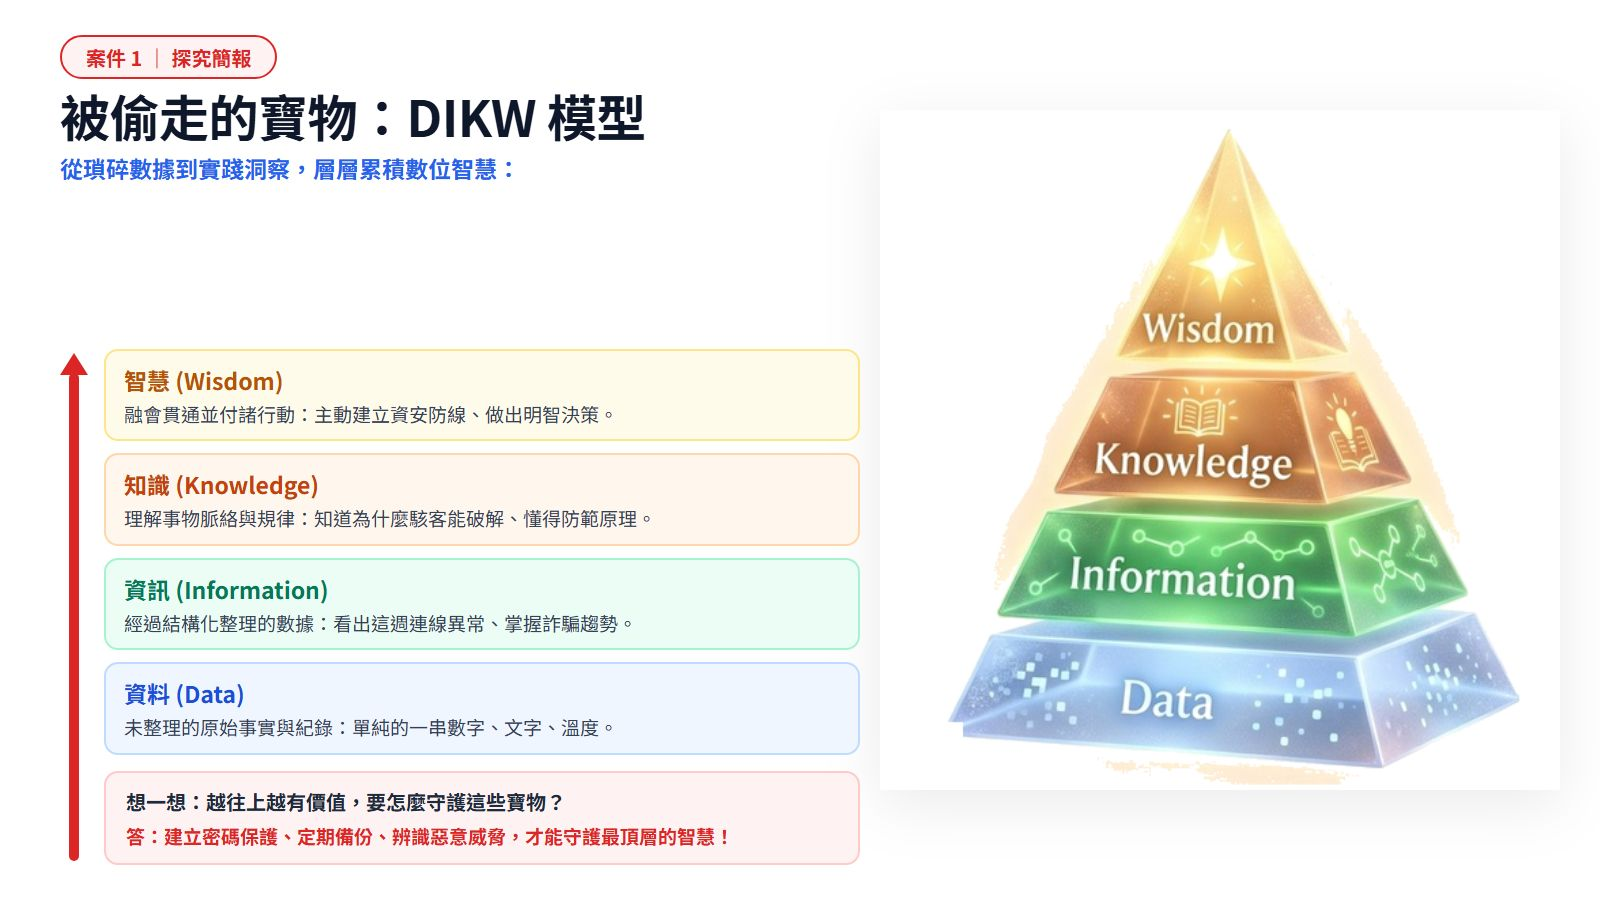
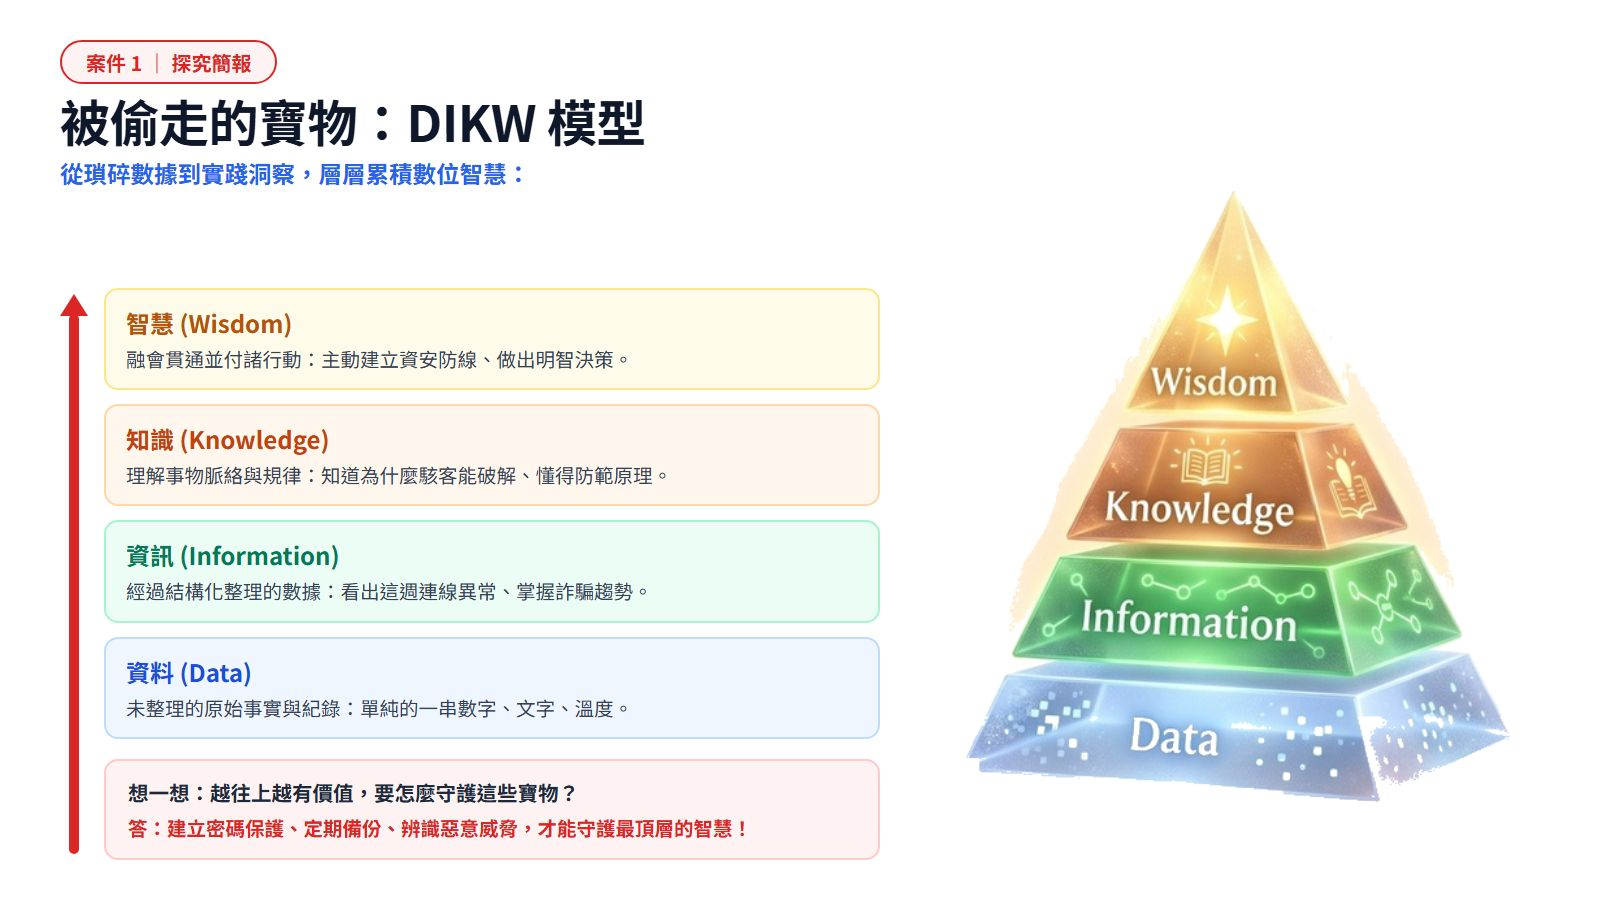
fix(case1): 依 Kristy 指導移除小女孩、純放大金字塔、卡片上移消除空隙並徹底根除方框陰影，更新快取標籤

diff --git a/units/g5-cyber-safety/index.html b/units/g5-cyber-safety/index.html
@@ -330,7 +330,7 @@
         box.appendChild(h('p', 'hint', '小美在放學路上發了一張自拍限動。她以為沒寫名字就很安全，你能找出 4 個洩漏個資的地方點點看嗎？'));
         box.appendChild(score);
         var two = h('div', 'g-two'), ph = h('div', 'insta-story');
-        ph.innerHTML = '<img src="assets/xiaomei_story_v1.jpg?v=20261025_v2_perfect" alt="小美的自拍限動" class="story-img">' +
+        ph.innerHTML = '<img src="assets/xiaomei_story_v1.jpg?v=20261025_v3_master_fixed" alt="小美的自拍限動" class="story-img">' +
           '<div class="story-bars"><div class="bar-seg active"></div><div class="bar-seg"></div></div>' +
           '<div class="story-header"><div class="story-user"><div class="story-avatar">👧</div><div class="story-name">小美</div><div class="story-time">剛剛</div></div></div>' +
           '<div class="spot spot-tag" data-p="3" tabindex="0" role="button" aria-label="打卡位置和時間">📍 台南市新化區・剛剛</div>' +
@@ -397,14 +397,14 @@
 
       intro: {
         title: '開場：歡迎來到資安偵探學院',
-        slides: ['assets/final_cover.jpg?v=20261025_v2_perfect', 'assets/intro_tools.jpg?v=20261025_v2_perfect']
+        slides: ['assets/final_cover.jpg?v=20261025_v3_master_fixed', 'assets/intro_tools.jpg?v=20261025_v3_master_fixed']
       },
 
       sections: [
         {
           title: '案件 1　資料變寶藏',
           text: '資料經過整理，變成資訊；資訊找出規律，變成知識；知識拿來做決定，就是智慧。越往上越有價值，也越需要保護。',
-          slides: ['assets/final_case1.jpg?v=20261025_v2_perfect'],
+          slides: ['assets/final_case1.jpg?v=20261025_v3_master_fixed'],
           interactive: GAMES.dikw,
           quizzes: [
             {
@@ -420,13 +420,13 @@
               feedback: '未加工的原始資料如同未打磨的砂石，而知識與智慧是耗費龐大成本提煉出的精華，外洩會直接重創組織或個人的核心競爭力。'
             }
           ],
-          infographic: 'assets/i1_dikw_v3.jpg?v=20261025_v2_perfect',
+          infographic: 'assets/i1_dikw_v3.jpg?v=20261025_v3_master_fixed',
           teacherTips: ['開場先播《賈資安偵探事務所》，請學生替自己取一個偵探代號（不用真名），寫在頁面下方的偵探證。', 'DIKW 補充：張忠謀金字塔理論新聞片段（本機影片）。']
         },
         {
           title: '案件 2　三把安全鎖',
           text: '資訊安全要守住三把鎖：<b>機密性</b>（不該看的人看不到）、<b>完整性</b>（資料沒被亂改）、<b>可用性</b>（需要時用得到）。威脅可能來自外部，也可能來自內部。',
-          slides: ['assets/final_case2.jpg?v=20261025_v2_perfect'],
+          slides: ['assets/final_case2.jpg?v=20261025_v3_master_fixed'],
           interactive: GAMES.cia,
           quizzes: [
             {
@@ -442,13 +442,13 @@
               feedback: '內部人員也必須遵循「最小權限原則」，僅能調閱工作職責所需的必要資料，隨意越權存取是嚴重的內部機密性威脅。'
             }
           ],
-          infographic: 'assets/i2_cia_v2.jpg?v=20261025_v2_perfect',
+          infographic: 'assets/i2_cia_v2.jpg?v=20261025_v3_master_fixed',
           teacherTips: ['原簡報「科技大廠揪內賊」與「競業禁止條款」兩頁對五年級偏難，沒有放進學生頁；想延伸時可口頭補充：公司的機密被員工帶走，也是內部威脅。', '原簡報的 Avaliability 拼字已在資訊圖表中更正為 Availability。']
         },
         {
           title: '案件 3　個資保衛戰',
           text: '只要能認出「你是誰」的資料都是個資。保護個資七大妙招的前兩招已更新：<b>密碼要長、每個帳號不同，懷疑外洩才換；再加上雙重驗證</b>。',
-          slides: ['assets/final_case3.jpg?v=20261025_v2_perfect'],
+          slides: ['assets/final_case3.jpg?v=20261025_v3_master_fixed'],
           interactive: GAMES.password,
           quizzes: [
             {
@@ -469,13 +469,13 @@
               feedback: '多因素驗證（MFA）必須跨越「知識、持有物、生物特徵」不同維度。兩道都是「記憶中的文字密碼」只是雙重密碼，一旦被鍵盤側錄或釣魚就會同時失守。'
             }
           ],
-          infographic: 'assets/i3_privacy_v3.jpg?v=20261025_v2_perfect',
+          infographic: 'assets/i3_privacy_v3.jpg?v=20261025_v3_master_fixed',
           teacherTips: ['舊說法「每三個月換密碼」已更新：現在的建議是用長密語、不重複使用，懷疑外洩才換，並開雙重驗證。', '提醒學生密碼破解計時器只輸入範例，不要輸入真的密碼。']
         },
         {
           title: '案件 4　可疑的連結',
           text: '朋友的帳號也可能被盜。收到奇怪的連結或要求時，<b>先停下來，用別的方法問本人</b>，必要時撥 165 反詐騙專線。',
-          slides: ['assets/final_case4.jpg?v=20261025_v2_perfect'],
+          slides: ['assets/final_case4.jpg?v=20261025_v3_master_fixed'],
           interactive: GAMES.scamChat,
           quizzes: [
             {
@@ -491,13 +491,13 @@
               feedback: '小額手續費是詐騙集團降低心防的誘餌，其真正目的是竊取卡片機密與簡訊 OTP 驗證碼，隨後在海外發動數萬元的盜刷。'
             }
           ],
-          infographic: 'assets/i4_net_v3.jpg?v=20261025_v2_perfect',
+          infographic: 'assets/i4_net_v3.jpg?v=20261025_v3_master_fixed',
           teacherTips: ['翔翔案例的討論題保留：電腦為什麼會這樣？如果是你，會不會點表哥的連結？', '原「牛刀小試」兩題已改寫成上面的想一想（天堂遊戲郵件、即時通 → 遊戲寶物私訊、LINE 借點數）。']
         },
         {
           title: '案件 5　阿嬤接到假電話',
           text: 'AI 可以用幾秒鐘的錄音模仿家人的聲音，也能做出假的臉（深偽）。<b>很急、要錢、要保密</b>就是警訊：先掛斷，用原本的號碼回撥，問全家的通關密語。',
-          slides: ['assets/final_case5.jpg?v=20261025_v2_perfect'],
+          slides: ['assets/final_case5.jpg?v=20261025_v3_master_fixed'],
           interactive: GAMES.voice,
           quizzes: [
             {
@@ -518,13 +518,13 @@
               feedback: '製造恐慌與時間壓力是所有社交工程的殺手鐧，目的就是阻止受害者冷靜下來打電話向第三方求證（Fact-Check）。'
             }
           ],
-          infographic: 'assets/i5_deepfake_v3.jpg?v=20261025_v2_perfect',
+          infographic: 'assets/i5_deepfake_v3.jpg?v=20261025_v3_master_fixed',
           teacherTips: ['家庭資安任務卡：回家和家人約一組通關密語，並幫家人檢查手機有沒有開雙重驗證，家長簽名帶回。', '可接調查局 × 臺灣吧國安動畫第三集（帳號被盜、個資外洩、假訊息），本機有影片。']
         },
         {
           title: '案件 6　跟 AI 聊天的秘密',
           text: 'AI 聊天機器人本質是<b>「大語言模型（LLM）的機率文字接龍」</b>，不是真實朋友。它可能產生「AI 幻覺」捏造假答案，輸入的對話也可能成為雲端訓練資料。善用它當激發靈感的副駕駛，保持查證，嚴守個資防線！',
-          slides: ['assets/final_case6.jpg?v=20261025_v2_perfect'],
+          slides: ['assets/final_case6.jpg?v=20261025_v3_master_fixed'],
           interactive: GAMES.chatLight,
           quizzes: [
             {
@@ -545,7 +545,7 @@
               feedback: '把 AI 當「思考副駕駛」啟發靈感，避免餵入真實個資，且所有結論均需人類主駕駛親自求證與負責，才是駕馭 AI 的資優思維。'
             }
           ],
-          infographic: 'assets/i6_chat_v2.jpg?v=20261025_v2_perfect',
+          infographic: 'assets/i6_chat_v2.jpg?v=20261025_v3_master_fixed',
           teacherTips: [
             '引導資優生理解 LLM（大語言模型）與傳統搜尋引擎的本質差異：搜尋引擎是檢索既有網頁，LLM 是根據統計機率生成新文字。',
             '深入討論「AI 幻覺（Hallucination）」：為什麼說話越自信流暢的模型，有時反而越容易騙過不習慣求證的人？',
@@ -555,7 +555,7 @@
         {
           title: '案件 7　搞笑貼圖風波',
           text: '每個人都有<b>肖像權</b>。用 AI 改別人的照片前，先問三個問題：本人同意了嗎？對方看到會難過嗎？傳出去收得回來嗎？',
-          slides: ['assets/final_case7.jpg?v=20261025_v2_perfect'],
+          slides: ['assets/final_case7.jpg?v=20261025_v3_master_fixed'],
           interactive: GAMES.debate,
           quizzes: [
             {
@@ -581,13 +581,13 @@
               feedback: '數位資料具有「零成本無限複製」的本質，你永遠無法向所有接收者收回所有權限。'
             }
           ],
-          infographic: 'assets/i7_photo_v3.jpg?v=20261025_v2_perfect',
+          infographic: 'assets/i7_photo_v3.jpg?v=20261025_v3_master_fixed',
           teacherTips: ['站隊辯論：教室兩邊分「同意／不同意」，學生走過去，再各請兩位說理由。允許學生聽完後換邊，並說明為什麼改變想法。']
         },
         {
           title: '案件 8　限時動態洩密',
           text: '沒寫名字也可能洩密。制服、門牌、站牌、打卡地點和時間，拼起來就能找到你。發文前先看一看，回家後晚點再發，限好友看。',
-          slides: ['assets/d1_story.jpg?v=20261025_v2_perfect', 'assets/d2_footprint.jpg?v=20261025_v2_perfect'],
+          slides: ['assets/d1_story.jpg?v=20261025_v3_master_fixed', 'assets/d2_footprint.jpg?v=20261025_v3_master_fixed'],
           interactive: GAMES.story,
           quizzes: [
             {
@@ -608,13 +608,13 @@
               feedback: '延時發布能打破「時間＋空間」的物理連結，讓潛在犯罪者無法掌握你的即時行蹤。'
             }
           ],
-          infographic: 'assets/i8_story_v3.jpg?v=20261025_v2_perfect',
+          infographic: 'assets/i8_story_v3.jpg?v=20261025_v3_master_fixed',
           teacherTips: ['可請學生分組找出自己平常拍照容易入鏡的個資（制服、名牌、車牌、門牌、窗外地標）。']
         },
         {
           title: '案件 9　釣魚網址與 QR code',
           text: '釣魚網站長得跟真的一模一樣，差別藏在網址裡。看網址要看<b>最後面的網域</b>；路邊貼的 QR code 也可能是假的。',
-          slides: ['assets/final_case9_phish.jpg?v=20261025_v2_perfect', 'assets/e2_qr_v3.jpg?v=20261025_v2_perfect'],
+          slides: ['assets/final_case9_phish.jpg?v=20261025_v3_master_fixed', 'assets/e2_qr_v3.jpg?v=20261025_v3_master_fixed'],
           interactive: GAMES.url,
           quizzes: [
             {
@@ -635,13 +635,13 @@
               feedback: 'QR code 無法用肉眼辨識目的地，實體被調包是極常見的滲透手段。'
             }
           ],
-          infographic: 'assets/i9_phish_v3.jpg?v=20261025_v2_perfect',
+          infographic: 'assets/i9_phish_v3.jpg?v=20261025_v3_master_fixed',
           teacherTips: ['真假網址遊戲裡的假網址都是虛構的示範，請勿在課堂上實際連線測試。']
         },
         {
           title: '案件 10　遊戲寶物陷阱',
           text: '免費寶物、代儲打折、帳號買賣，是學生最常遇到的遊戲詐騙。<b>官方不會私訊送寶物</b>，也不要把帳號密碼給任何人。',
-          slides: ['assets/v10_game_v2.jpg?v=20261025_v2_perfect'],
+          slides: ['assets/v10_game_v2.jpg?v=20261025_v3_master_fixed'],
           interactive: GAMES.gameStory,
           quizzes: [
             {
@@ -667,13 +667,13 @@
               feedback: '先切斷外洩管道（改密碼＋開 2FA），再清查影響範圍與通知聯絡人，避免災害擴散。'
             }
           ],
-          infographic: 'assets/i10_game_v3.jpg?v=20261025_v2_perfect',
+          infographic: 'assets/i10_game_v3.jpg?v=20261025_v3_master_fixed',
           teacherTips: ['我是反詐騙設計師：分組設計一張給阿公阿嬤或低年級看的防詐海報，或 30 秒短劇，下次課發表。']
         },
         {
           title: '案件 11　群組裡的旁觀者',
           text: '網路霸凌時，旁觀者的選擇很重要。<b>不轉傳、不按讚</b>；私下關心被欺負的人；截圖留證據，告訴老師或家長。',
-          slides: ['assets/v11_bully_v2.jpg?v=20261025_v2_perfect'],
+          slides: ['assets/v11_bully_v2.jpg?v=20261025_v3_master_fixed'],
           interactive: GAMES.bystander,
           quizzes: [
             {
@@ -699,7 +699,7 @@
               feedback: '私下破除孤立感、切斷公開演算法擴散，並保留有效法律證據，是資優公民成熟智慧的表現。'
             }
           ],
-          infographic: 'assets/i11_bully_v3.jpg?v=20261025_v2_perfect',
+          infographic: 'assets/i11_bully_v3.jpg?v=20261025_v3_master_fixed',
           teacherTips: ['勇氣卡：每人寫一張「如果我看到網路霸凌，我會……」，可以兩兩角色扮演練習怎麼私訊關心。', '若學生分享到真實發生的事件，課後個別關心，不在全班討論。']
         },
       ],
